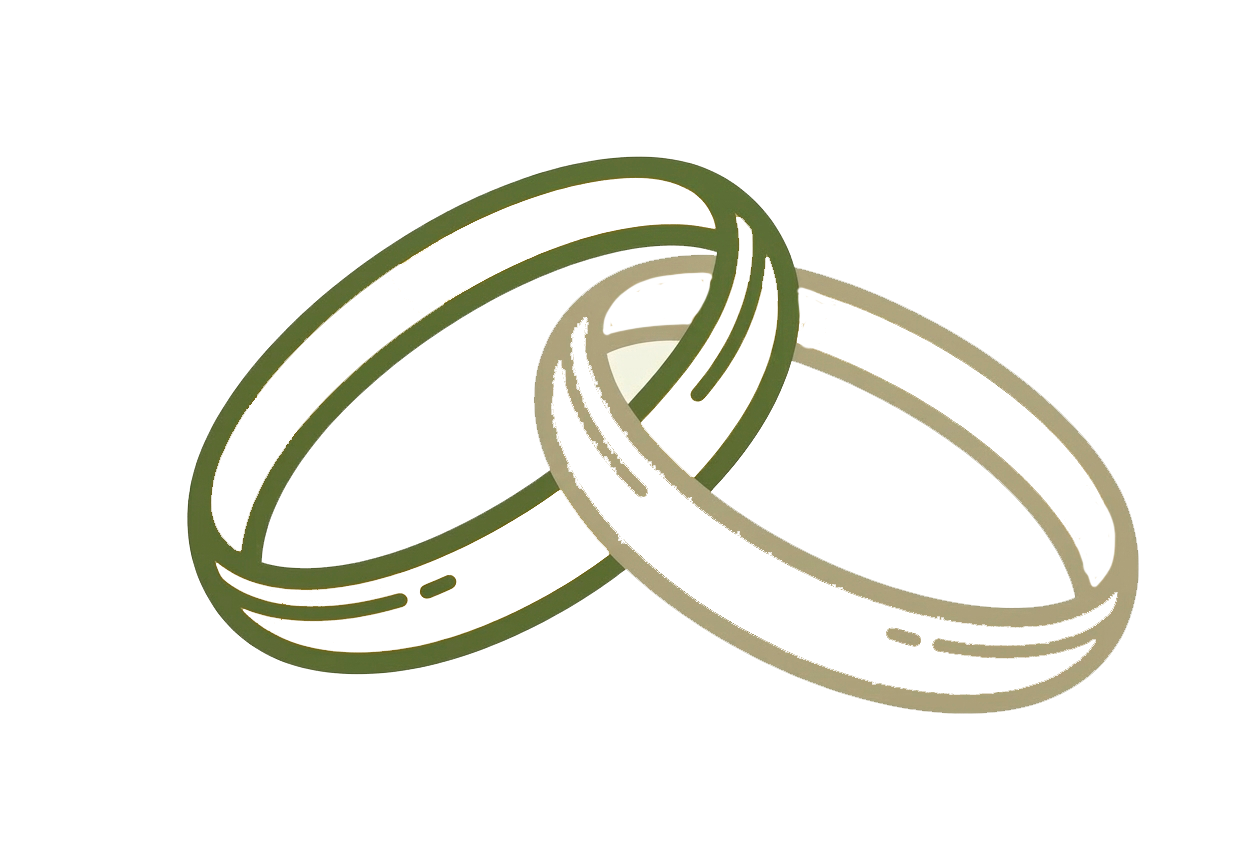
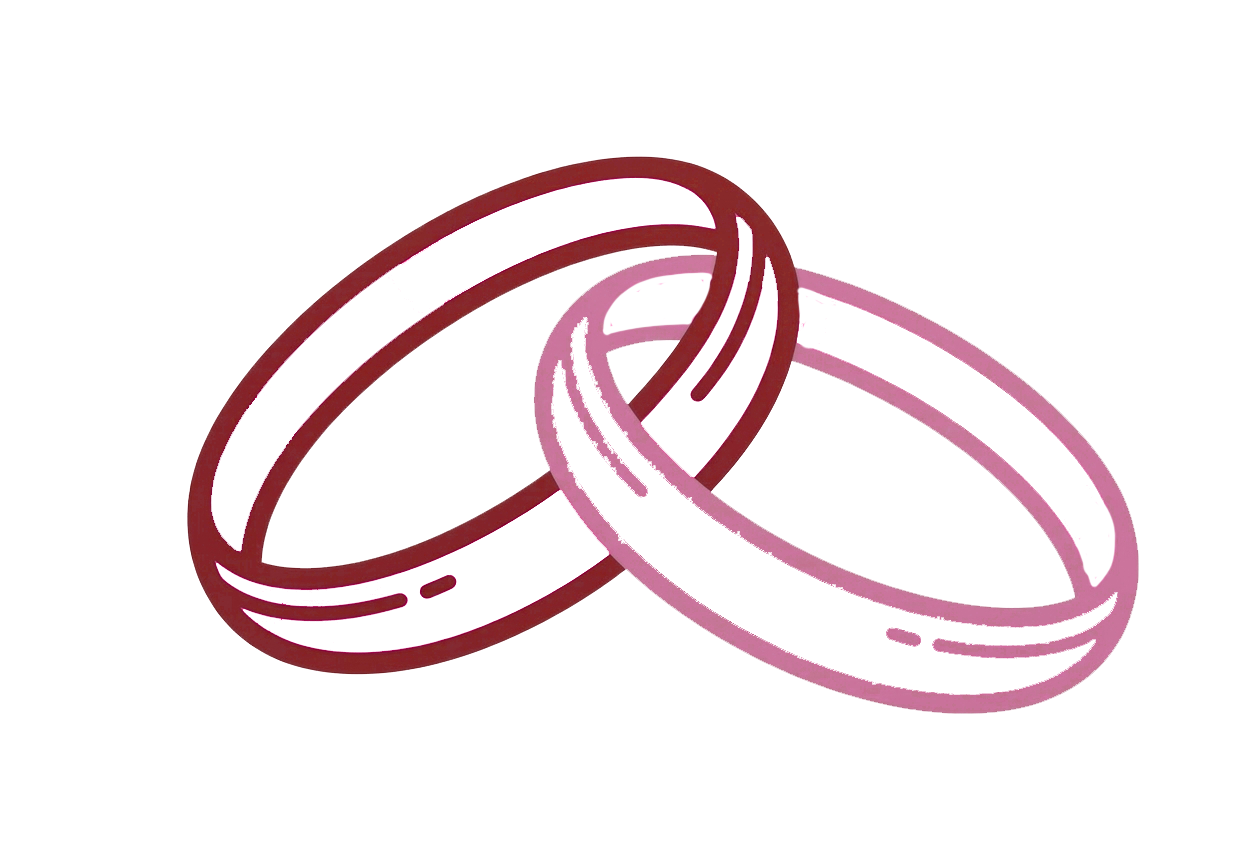
fix

Changed region(s): [[0.125, 0.1808, 0.9375, 0.8436]]

diff --git a/index.html b/index.html
@@ -316,18 +316,25 @@
     <div id="rec1432877881" class="r t-rec t-screenmax-640px" style=" " data-animationappear="off" data-record-type="396" data-screen-max="640px">
       <!-- T396 -->
       <div class='t396'>
-        <div class="t396__artboard" data-artboard-recid="1432877881" data-artboard-screens="320,480,640,960,1200" data-artboard-height="492" data-artboard-valign="center" data-artboard-upscale="window" data-artboard-height-res-320="423" data-artboard-height-res-480="528" data-artboard-height-res-640="516" data-artboard-height-res-960="492">
+        <div class="t396__artboard" data-artboard-recid="1432877881" data-artboard-screens="320,480,640,960,1200" data-artboard-height="492" data-artboard-valign="center" data-artboard-upscale="window" data-artboard-height-res-320="528" data-artboard-height-res-480="528" data-artboard-height-res-640="516" data-artboard-height-res-960="492">
           <div class="t396__carrier" data-artboard-recid="1432877881"></div>
           <div class="t396__filter" data-artboard-recid="1432877881"></div>
           <div class='t396__elem tn-elem tn-elem__14328778811759740347547' data-elem-id='1759740347547' data-elem-type='text' data-field-top-value="37" data-field-left-value="88" data-field-height-value="32" data-field-width-value="163" data-field-axisy-value="top" data-field-axisx-value="left" data-field-container-value="grid" data-field-topunits-value="px" data-field-leftunits-value="px" data-field-heightunits-value="px" data-field-widthunits-value="px" data-field-textfit-value="autoheight" data-field-fontsize-value="32" data-field-top-res-320-value="60" data-field-left-res-320-value="79" data-field-height-res-320-value="32" data-field-width-res-320-value="163" data-field-container-res-320-value="grid" data-field-heightunits-res-320-value="px" data-field-textfit-res-320-value="autoheight" data-field-fontsize-res-320-value="40" data-field-top-res-480-value="60" data-field-left-res-480-value="159" data-field-top-res-640-value="60" data-field-left-res-640-value="239">
             <div class='tn-atom' field='tn_text_1759740347547'>Локация</div>
           </div>
-          <div class='t396__elem tn-elem tn-elem__14328778811759740347564' data-elem-id='1759740347564' data-elem-type='text' data-field-top-value="370" data-field-left-value="27" data-field-height-value="26" data-field-width-value="293" data-field-axisy-value="top" data-field-axisx-value="left" data-field-container-value="grid" data-field-topunits-value="px" data-field-leftunits-value="px" data-field-heightunits-value="px" data-field-widthunits-value="px" data-field-textfit-value="autoheight" data-field-fontsize-value="20" data-field-top-res-320-value="345" data-field-left-res-320-value="13" data-field-height-res-320-value="21" data-field-width-res-320-value="295" data-field-container-res-320-value="grid" data-field-heightunits-res-320-value="px" data-field-textfit-res-320-value="autoheight" data-field-fontsize-res-320-value="14" data-field-top-res-480-value="442" data-field-left-res-480-value="94" data-field-top-res-640-value="430" data-field-left-res-640-value="174">
-            <div class='tn-atom' field='tn_text_1759740347564'>Московская область, д. Герасимиха, территория Раздолье, 5            </div>
+          <div class='t396__elem tn-elem tn-elem__14328778811759740347564' data-elem-id='1759740347564' data-elem-type='text' data-field-top-value="370" data-field-left-value="27" data-field-height-value="26" data-field-width-value="400" data-field-axisy-value="top" data-field-axisx-value="left" data-field-container-value="grid" data-field-topunits-value="px" data-field-leftunits-value="px" data-field-heightunits-value="px" data-field-widthunits-value="px" data-field-textfit-value="autoheight" data-field-fontsize-value="20" data-field-top-res-320-value="355" data-field-left-res-320-value="13" data-field-height-res-320-value="21" data-field-width-res-320-value="295" data-field-container-res-320-value="grid" data-field-heightunits-res-320-value="px" data-field-textfit-res-320-value="autoheight" data-field-fontsize-res-320-value="14" data-field-top-res-480-value="442" data-field-left-res-480-value="94" data-field-top-res-640-value="430" data-field-left-res-640-value="174">
+            <div class='tn-atom' field='tn_text_1759740347564'>Москва, Дубравная ул., 48А</div>
           </div>
-          <div class='t396__elem tn-elem tn-elem__14328778811759740347570' data-elem-id='1759740347570' data-elem-type='text' data-field-top-value="343" data-field-left-value="99" data-field-height-value="24" data-field-width-value="149" data-field-axisy-value="top" data-field-axisx-value="left" data-field-container-value="grid" data-field-topunits-value="px" data-field-leftunits-value="px" data-field-heightunits-value="px" data-field-widthunits-value="px" data-field-textfit-value="autoheight" data-field-fontsize-value="24" data-field-top-res-320-value="320" data-field-left-res-320-value="86" data-field-fontsize-res-320-value="26" data-field-top-res-480-value="414" data-field-left-res-480-value="166" data-field-top-res-640-value="403" data-field-left-res-640-value="246">
-            <div class='tn-atom' field='tn_text_1759740347570'>Шервуд</div>
+          <div class='t396__elem tn-elem tn-elem__14328778811759740347570' data-elem-id='1759740347570' data-elem-type='text' data-field-top-value="343" data-field-left-value="99" data-field-height-value="24" data-field-width-value="350" data-field-axisy-value="top" data-field-axisx-value="left" data-field-container-value="grid" data-field-topunits-value="px" data-field-leftunits-value="px" data-field-heightunits-value="px" data-field-widthunits-value="px" data-field-textfit-value="autoheight" data-field-fontsize-value="24" data-field-top-res-320-value="320" data-field-left-res-320-value="-14" data-field-fontsize-res-320-value="26" data-field-top-res-480-value="414" data-field-left-res-480-value="166" data-field-top-res-640-value="403" data-field-left-res-640-value="246">
+            <div class='tn-atom' field='tn_text_1759740347570'>Роспись - Митинский Дворец бракосочетаний</div>
           </div>
+          <div class='t396__elem tn-elem tn-elem__14328778811759740347564' data-elem-id='1759740347564' data-elem-type='text' data-field-top-value="370" data-field-left-value="27" data-field-height-value="26" data-field-width-value="400" data-field-axisy-value="top" data-field-axisx-value="left" data-field-container-value="grid" data-field-topunits-value="px" data-field-leftunits-value="px" data-field-heightunits-value="px" data-field-widthunits-value="px" data-field-textfit-value="autoheight" data-field-fontsize-value="20" data-field-top-res-320-value="415" data-field-left-res-320-value="13" data-field-height-res-320-value="21" data-field-width-res-320-value="295" data-field-container-res-320-value="grid" data-field-heightunits-res-320-value="px" data-field-textfit-res-320-value="autoheight" data-field-fontsize-res-320-value="14" data-field-top-res-480-value="442" data-field-left-res-480-value="94" data-field-top-res-640-value="430" data-field-left-res-640-value="174">
+            <div class='tn-atom' field='tn_text_1759740347564'>Московская область, Долгопрудный, Набережная улица, 24            </div>
+          </div>
+          <div class='t396__elem tn-elem tn-elem__14328778811759740347570' data-elem-id='1759740347570' data-elem-type='text' data-field-top-value="343" data-field-left-value="99" data-field-height-value="24" data-field-width-value="400" data-field-axisy-value="top" data-field-axisx-value="left" data-field-container-value="grid" data-field-topunits-value="px" data-field-leftunits-value="px" data-field-heightunits-value="px" data-field-widthunits-value="px" data-field-textfit-value="autoheight" data-field-fontsize-value="24" data-field-top-res-320-value="394" data-field-left-res-320-value="-36" data-field-fontsize-res-320-value="26" data-field-top-res-480-value="414" data-field-left-res-480-value="166" data-field-top-res-640-value="403" data-field-left-res-640-value="246">
+            <div class='tn-atom' field='tn_text_1759740347570'>Банкет - Веранда «Бриз»</div>
+          </div>
+          
           <div class='t396__elem tn-elem tn-elem__14328778811759740402319' data-elem-id='1759740402319' data-elem-type='image' data-field-top-value="69" data-field-left-value="78" data-field-height-value="143" data-field-width-value="200" data-field-axisy-value="top" data-field-axisx-value="left" data-field-container-value="grid" data-field-topunits-value="px" data-field-leftunits-value="px" data-field-heightunits-value="px" data-field-widthunits-value="px" data-field-filewidth-value="1262" data-field-fileheight-value="902" data-field-heightmode-value="hug" data-field-top-res-320-value="130" data-field-left-res-320-value="33" data-field-height-res-320-value="182" data-field-width-res-320-value="255" data-field-container-res-320-value="grid" data-field-widthmode-res-320-value="fixed" data-field-top-res-480-value="81" data-field-left-res-480-value="24" data-field-height-res-480-value="329" data-field-width-res-480-value="433" data-field-top-res-640-value="96" data-field-left-res-640-value="124" data-field-height-res-640-value="298" data-field-width-res-640-value="392">
             <div class='tn-atom'> <img class='tn-atom__img' src='img/shater.jpg' alt='' imgfield='tn_img_1759740402319' /> </div>
           </div>
@@ -440,7 +447,7 @@
           <div class='t396__elem tn-elem tn-elem__13927096711759740893357' data-elem-id='1759740893357' data-elem-type='text' data-field-top-value="163" data-field-left-value="111" data-field-height-value="36" data-field-width-value="200" data-field-axisy-value="top" data-field-axisx-value="left" data-field-container-value="grid" data-field-topunits-value="px" data-field-leftunits-value="px" data-field-heightunits-value="px" data-field-widthunits-value="px" data-field-textfit-value="autoheight" data-field-fontsize-value="36" data-field-top-res-320-value="60" data-field-left-res-320-value="59" data-field-width-res-320-value="203" data-field-fontsize-res-320-value="40" data-field-top-res-480-value="167" data-field-left-res-480-value="140" data-field-top-res-640-value="177" data-field-left-res-640-value="220">
             <div class='tn-atom' field='tn_text_1759740893357'>Пожелания</div>
           </div>
-          <div class='t396__elem tn-elem tn-elem__13927096711759740893368' data-elem-id='1759740893368' data-elem-type='text' data-field-top-value="231" data-field-left-value="441" data-field-height-value="60" data-field-width-value="319" data-field-axisy-value="top" data-field-axisx-value="left" data-field-container-value="grid" data-field-topunits-value="px" data-field-leftunits-value="px" data-field-heightunits-value="px" data-field-widthunits-value="px" data-field-textfit-value="autoheight" data-field-fontsize-value="15" data-field-top-res-320-value="130" data-field-left-res-320-value="23" data-field-height-res-320-value="60" data-field-width-res-320-value="274" data-field-fontsize-res-320-value="14" data-field-top-res-480-value="233" data-field-left-res-480-value="77" data-field-width-res-480-value="327" data-field-top-res-640-value="243" data-field-left-res-640-value="161">
+          <div class='t396__elem tn-elem tn-elem__13927096711759740893368' data-elem-id='1759740893368' data-elem-type='text' data-field-top-value="231" data-field-left-value="441" data-field-height-value="60" data-field-width-value="319" data-field-axisy-value="top" data-field-axisx-value="left" data-field-container-value="grid" data-field-topunits-value="px" data-field-leftunits-value="px" data-field-heightunits-value="px" data-field-widthunits-value="px" data-field-textfit-value="autoheight" data-field-fontsize-value="15" data-field-top-res-320-value="104" data-field-left-res-320-value="23" data-field-height-res-320-value="60" data-field-width-res-320-value="274" data-field-fontsize-res-320-value="14" data-field-top-res-480-value="233" data-field-left-res-480-value="77" data-field-width-res-480-value="327" data-field-top-res-640-value="243" data-field-left-res-640-value="161">
             <div class='tn-atom' field='tn_text_1759740893368'>Самое важное для нас — это то, что вы можете приехать и отпраздновать нашу свадьбу. Но если захотите сделать подарок, мы с радостью примем ваш вклад в наш семейный бюджет.</div>
           </div>
           <div class='t396__elem tn-elem tn-elem__13927096711759741039831 t-animate' data-elem-id='1759741039831' data-elem-type='image' data-field-top-value="20" data-field-left-value="20" data-field-height-value="130" data-field-width-value="200" data-field-axisy-value="top" data-field-axisx-value="left" data-field-container-value="grid" data-field-topunits-value="px" data-field-leftunits-value="px" data-field-heightunits-value="px" data-field-widthunits-value="px" data-animate-style="fadeinright" data-animate-duration="2" data-animate-distance="100" data-animate-mobile="y" data-field-filewidth-value="322" data-field-fileheight-value="210" data-field-heightmode-value="hug" data-field-top-res-320-value="205" data-field-left-res-320-value="87" data-field-height-res-320-value="100" data-field-width-res-320-value="153" data-field-top-res-480-value="311" data-field-left-res-480-value="140" data-field-height-res-480-value="130" data-field-width-res-480-value="200" data-field-container-res-480-value="grid" data-field-top-res-640-value="331" data-field-left-res-640-value="220" data-field-height-res-640-value="130">

diff --git a/scss/kidswedding-inline.scss b/scss/kidswedding-inline.scss
@@ -21,7 +21,7 @@ $text-dark: #2c2d27;
 $text-olive-dark: #b27595;
 $text-olive-darker: #a23f72;
 $text-accent: #a23f72;
-$text-gold: #b49a58;
+$text-gold: #a23f72;
 $text-burgundy: #631b25;
 $text-cream: #fdf9e2;
 $text-cream-soft: #fefaf0;

diff --git a/css/kidswedding-inline.css b/css/kidswedding-inline.css
@@ -83,7 +83,7 @@ li {
   right: 110px;
   transform: translateY(-80%);
   font-family: "rukopis", "Montserrat", Arial, sans-serif;
-  color: #b49a58;
+  color: #a23f72;
 }
 
 .hero-rings {
